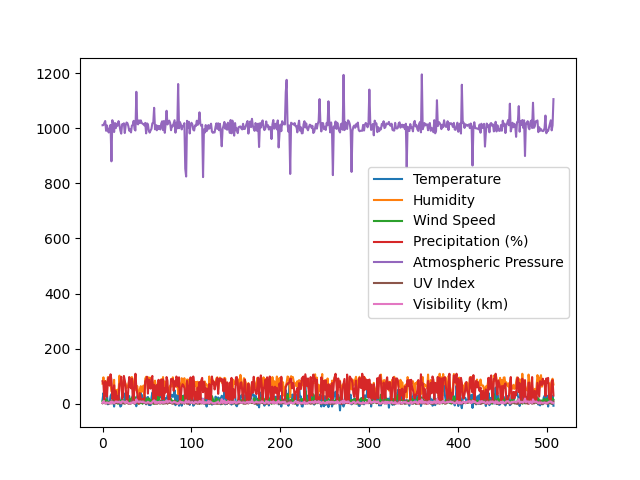
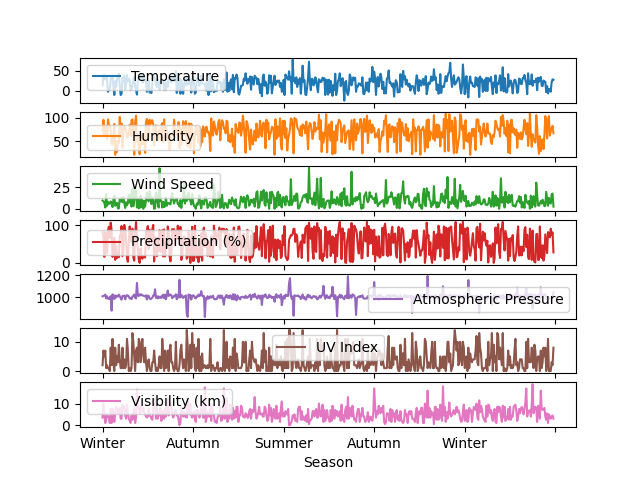
Not done

diff --git a/weather.py b/weather.py
@@ -2,13 +2,19 @@ import pandas as pd
 import matplotlib.pyplot as plot
 
 data = pd.read_csv("weather.csv")
-data.plot(kind="bar", y = "Location", x = "Weather Type")
+
+data.plot(subplots=True, x = "Season")
+
 plot.savefig("weather.png")
 
+temperature = data['Temperature']
 
+fig, ax = plot.subplots(7, 1, figsize=(6, 10))
 
+ax[0].plot(data, temperature, color='tab:red')
 
-
+df = pd.read_csv('weather.csv')
+print(df) 
 
 
 
